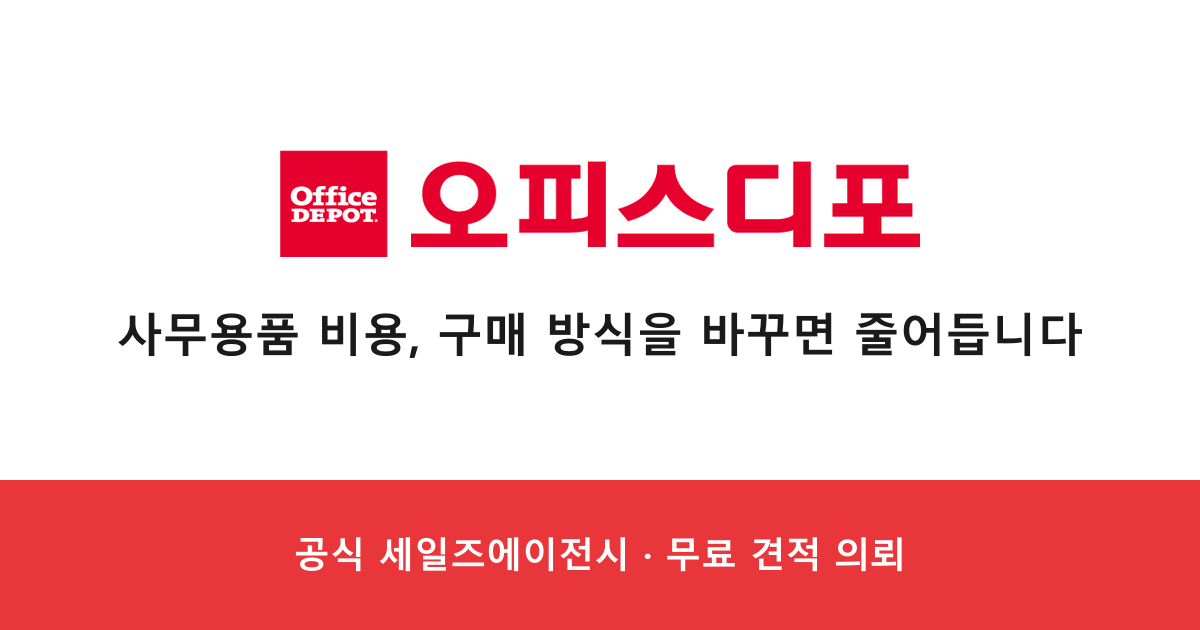
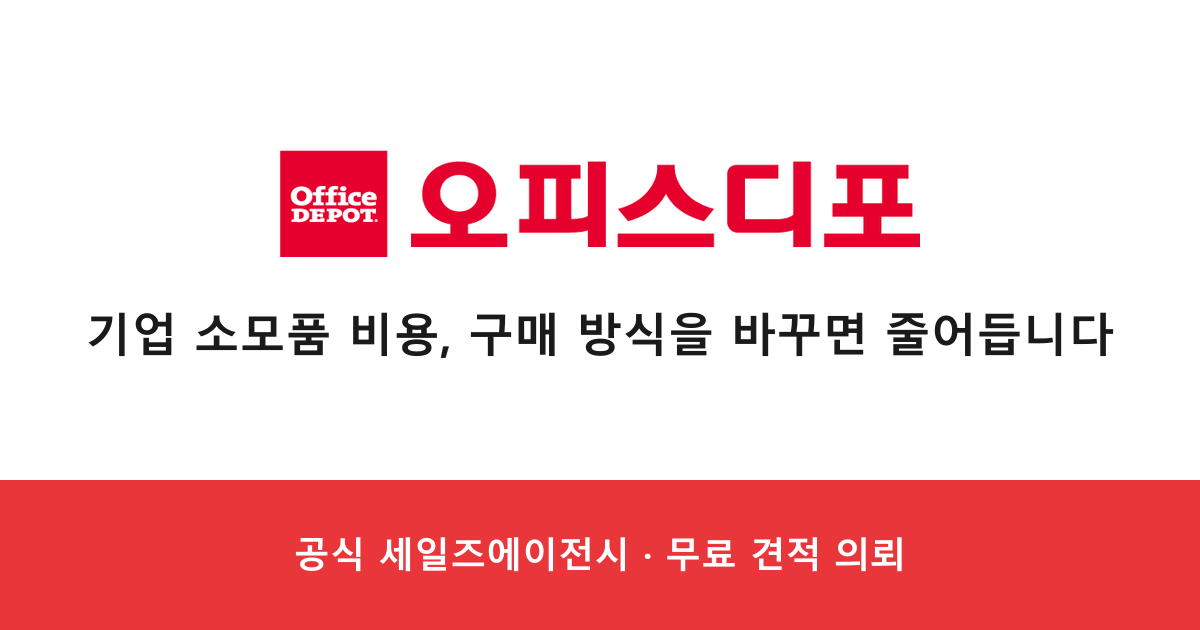
Broaden wording from office supplies to food, household and supplies
Headlines now say company consumables; lists put food and household
items first. Updates title/description, OG image, form options and
price categories.

Changed region(s): [[0.0617, 0.4825, 0.925, 0.573]]

diff --git a/src/lib/prices.ts b/src/lib/prices.ts
@@ -14,9 +14,9 @@ export type PriceItem = { code: string; category: string; name: string; spec: st
 export const samplePrices: PriceItem[] = [
   { code: "100800", category: "복사용지", name: "오피스디포 복사용지 A4 75g", spec: "500매×5권 / 박스", price: 19900, image: true },
   { code: "100810", category: "복사용지", name: "오피스디포 복사용지 A4 80g", spec: "500매×5권 / 박스", price: 20500, image: true },
-  { code: "314030", category: "사무용품", name: "포스트-잇 알뜰팩 653-9A", spec: "3M", price: 4300, image: true },
+  { code: "314030", category: "문구", name: "포스트-잇 알뜰팩 653-9A", spec: "3M", price: 4300, image: true },
   { code: "500021", category: "필기구", name: "모나미 플러스펜 3000 (흑)", spec: "12자루", price: 3600, image: true },
-  { code: "312140", category: "사무용품", name: "스카치 매직테이프 810D", spec: "18mm×30M / 3M", price: 3700 },
+  { code: "312140", category: "문구", name: "스카치 매직테이프 810D", spec: "18mm×30M / 3M", price: 3700 },
   { code: "313311", category: "포장", name: "박스테이프 (투명)", spec: "50mm×40M", price: 700, image: true },
   { code: "503341", category: "필기구", name: "보드마카 (흑색)", spec: "1자루 / FORAY", price: 350 },
   { code: "800540", category: "생활용품", name: "에너자이저 맥스 건전지 AA", spec: "12+4입 / 알카라인", price: 12380, image: true },

diff --git a/src/components/sections/Story.tsx b/src/components/sections/Story.tsx
@@ -16,15 +16,15 @@ export default function Story() {
         <div className="max-w-3xl">
           <p className="text-xs font-bold tracking-[0.25em] text-white/50 sm:text-sm">OUR STORY</p>
           <h2 className="mt-4 text-[30px] font-black leading-[1.3] tracking-tight sm:text-5xl sm:leading-[1.25]">
-            사무용품 비용,
+            회사 소모품 비용,
             <br />
             왜 줄지 않을까요?
           </h2>
 
           <div className="mt-10 space-y-6 text-[16px] leading-[1.9] text-white/75 sm:text-lg">
             <p>
-              기업 총무·구매 담당자분들과 이야기하며 알게 됐습니다. 요즘 많은 회사가 사무용품을
-              <strong className="text-white"> 인터넷 오픈마켓에서 법인카드로</strong> 삽니다. 빠르고 편하니까요. 필요한 것
+              기업 총무·구매 담당자분들과 이야기하며 알게 됐습니다. 요즘 많은 회사가 커피·생수 같은 식음료와
+              화장지·세제 같은 생활용품, 사무용품까지 <strong className="text-white">인터넷 오픈마켓에서 법인카드로</strong> 삽니다. 빠르고 편하니까요. 필요한 것
               하나를 사러 들어갔다가, 이것저것 함께 담아 결제하는 일이 자연스럽게 생깁니다.
             </p>
             <p>

diff --git a/src/app/page.tsx b/src/app/page.tsx
@@ -87,15 +87,15 @@ export default function Home() {
               {site.role}
             </p>
             <h1 className="mt-6 text-[34px] font-black leading-[1.25] tracking-tight sm:text-5xl lg:text-6xl">
-              사무용품 비용,
+              기업 소모품 비용,
               <br />
               <span className="text-sun">구매 방식</span>을 바꾸면
               <br />
               줄어듭니다
             </h1>
             <p className="mt-6 max-w-xl text-base leading-relaxed text-white/90 sm:text-lg">
-              업계 1위 오피스디포의 기업 전용 단가와 B2B 구매몰, 월 통합 정산까지. 지금 구매 내역과
-              비교해 얼마나 줄어드는지 숫자로 보여 드립니다.
+              식음료·생활용품부터 사무용품까지. 업계 1위 오피스디포의 기업 전용 단가와 B2B 구매몰, 월 통합
+              정산으로 지금보다 얼마나 줄어드는지 숫자로 보여 드립니다.
             </p>
             <div className="mt-9 flex flex-col gap-3 sm:flex-row">
               <CallButton kind="quote" variant="white" size="lg" label="무료 견적 의뢰하기" />

diff --git a/src/lib/site.ts b/src/lib/site.ts
@@ -22,9 +22,9 @@ export const site = {
   blogUrl: "https://blog.naver.com/helpoffice1",
 
   // SEO
-  title: "오피스디포 공식 세일즈에이전시 | 기업 사무용품·MRO 구매 상담",
+  title: "오피스디포 공식 세일즈에이전시 | 기업 식음료·생활용품·사무용품 구매 상담",
   description:
-    "오피스디포 공식 세일즈에이전시가 기업 사무용품, 소모품, MRO 구매를 상담해 드립니다. 전용 B2B몰과 예산관리로 회사 전체 구매 비용을 통제하세요. 무료 비교 견적.",
+    "오피스디포 공식 세일즈에이전시가 기업의 식음료, 생활용품, 사무용품, MRO 구매를 상담해 드립니다. 전용 B2B몰과 예산관리로 회사 전체 구매 비용을 통제하세요. 무료 비교 견적.",
 } as const;
 
 export const nav = [

diff --git a/src/components/sections/ExclusiveMall.tsx b/src/components/sections/ExclusiveMall.tsx
@@ -39,7 +39,7 @@ export default function ExclusiveMall() {
             <br /> <span className="text-brand">전용 B2B 쇼핑몰</span>을 만들어 드립니다
           </h2>
           <p className="mt-4 text-base leading-relaxed text-muted sm:text-lg">
-            많은 기업이 오피스디포 B2B몰로 사무용품을 구매합니다. 여기에 회사 로고와 우리 회사 품목, 승인·예산 규칙을 입힌
+            많은 기업이 오피스디포 B2B몰로 식음료·생활용품·사무용품을 구매합니다. 여기에 회사 로고와 우리 회사 품목, 승인·예산 규칙을 입힌
             <strong className="text-ink"> 단독 구매몰</strong>을 열어 드립니다.
           </p>
         </div>

diff --git a/src/components/sections/Benefit.tsx b/src/components/sections/Benefit.tsx
@@ -47,7 +47,7 @@ export default function Benefit() {
         <div className="mx-auto max-w-3xl text-center">
           <p className="text-sm font-bold tracking-wide text-brand">WHY B2B PURCHASING</p>
           <h2 className="mt-3 text-[26px] font-black leading-snug tracking-tight sm:text-[42px] sm:leading-tight">
-            사무용품 비용 절감,
+            소모품 비용 절감,
             <br />
             최저가 검색보다 <span className="relative whitespace-nowrap text-brand">‘구매 방식’<span aria-hidden className="absolute inset-x-0 -bottom-1 h-1.5 rounded-full bg-sun" /></span>이 먼저입니다
           </h2>

diff --git a/src/components/QuoteForm.tsx b/src/components/QuoteForm.tsx
@@ -8,7 +8,7 @@ import { CheckIcon } from "./icons";
 
 const initialState: QuoteState = { ok: false, message: "" };
 
-const itemOptions = ["사무용품", "복사지·토너", "탕비실·생활용품", "MRO·소모품", "출력·제작물", "판촉물", "렌탈", "기업 전용몰"];
+const itemOptions = ["식음료·간식", "생활·위생용품", "사무용품", "복사지·토너", "MRO·안전용품", "출력·제작물", "판촉물", "렌탈", "기업 전용몰"];
 const sizeOptions = ["10명 미만", "10~49명", "50~199명", "200명 이상"];
 
 const input =
